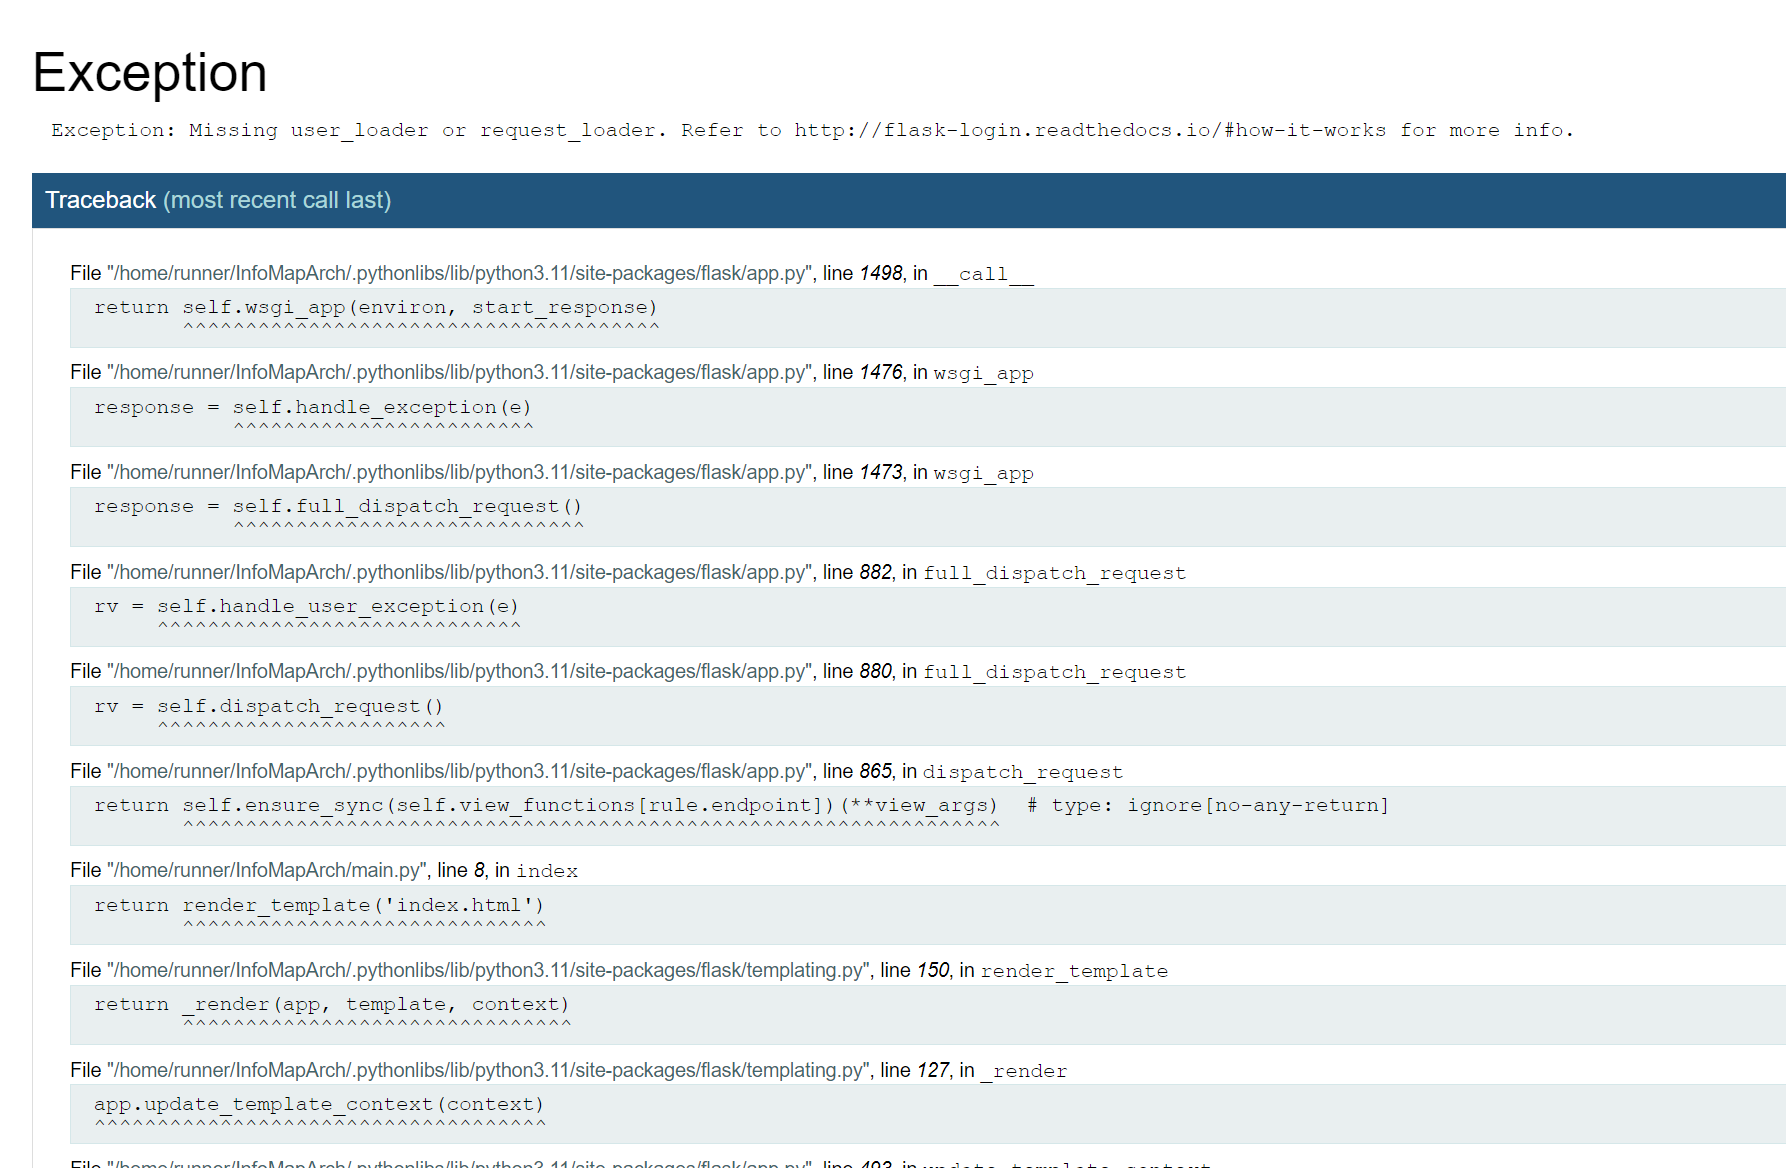
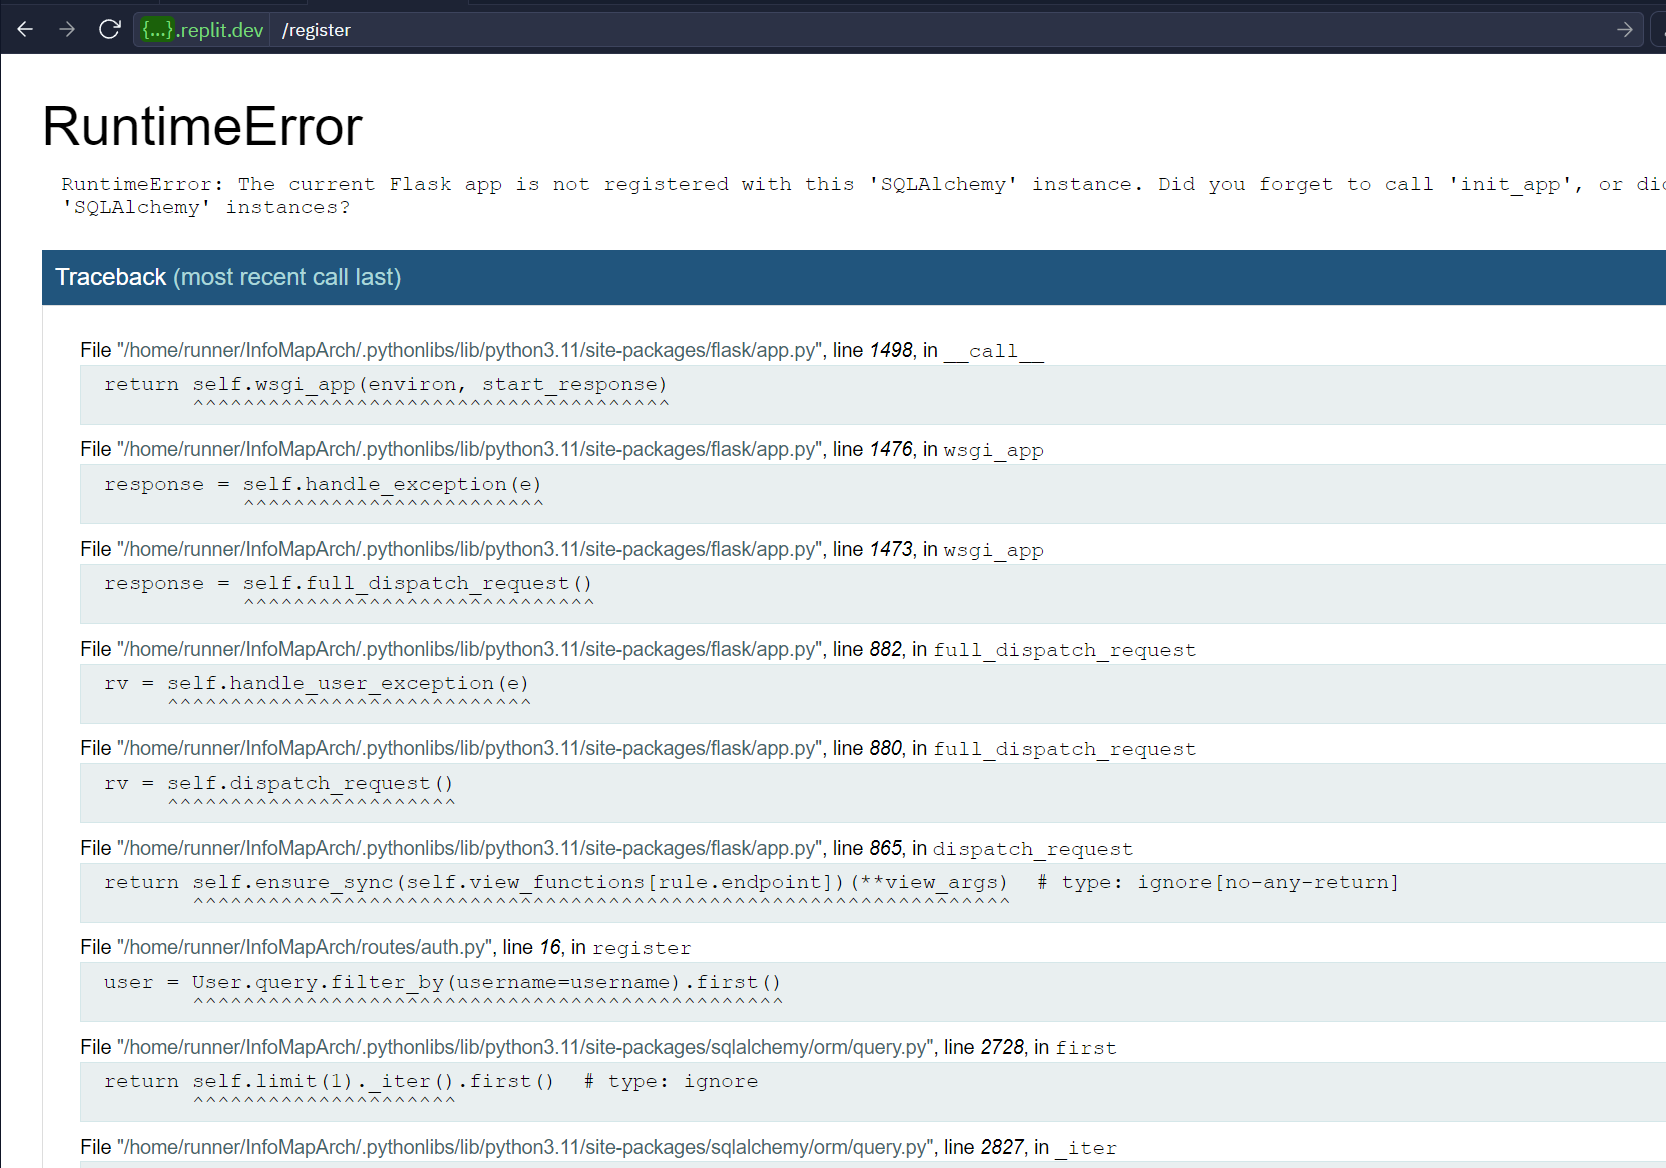
Agent query: 1. Is the registration page loading without any errors? 2. Can you successfully register a new user? 3. After registration, are you redirected to the login page?

Changed region(s): [[0.0, 0.0, 1.0, 1.0], [0.6867, 0.7397, 0.7803, 0.7705], [0.8115, 0.7397, 0.8427, 0.7705]]

diff --git a/app.py b/app.py
@@ -2,15 +2,14 @@ from flask import Flask
 from flask_sqlalchemy import SQLAlchemy
 from flask_login import LoginManager
 from config import Config
-from models import User
+from sqlalchemy.orm import DeclarativeBase
 
-db = SQLAlchemy()
+class Base(DeclarativeBase):
+    pass
+
+db = SQLAlchemy(model_class=Base)
 login_manager = LoginManager()
 login_manager.login_view = 'auth.login'
-
-@login_manager.user_loader
-def load_user(user_id):
-    return User.query.get(int(user_id))
 
 def create_app():
     app = Flask(__name__)
@@ -18,6 +17,14 @@ def create_app():
 
     db.init_app(app)
     login_manager.init_app(app)
+
+    with app.app_context():
+        from models import User
+        db.create_all()
+
+    @login_manager.user_loader
+    def load_user(user_id):
+        return User.query.get(int(user_id))
 
     from routes import auth, game, api
     app.register_blueprint(auth.bp)

diff --git a/main.py b/main.py
@@ -8,6 +8,4 @@ def index():
     return render_template('index.html')
 
 if __name__ == "__main__":
-    with app.app_context():
-        db.create_all()
     app.run(host="0.0.0.0", port=5000, debug=True)
